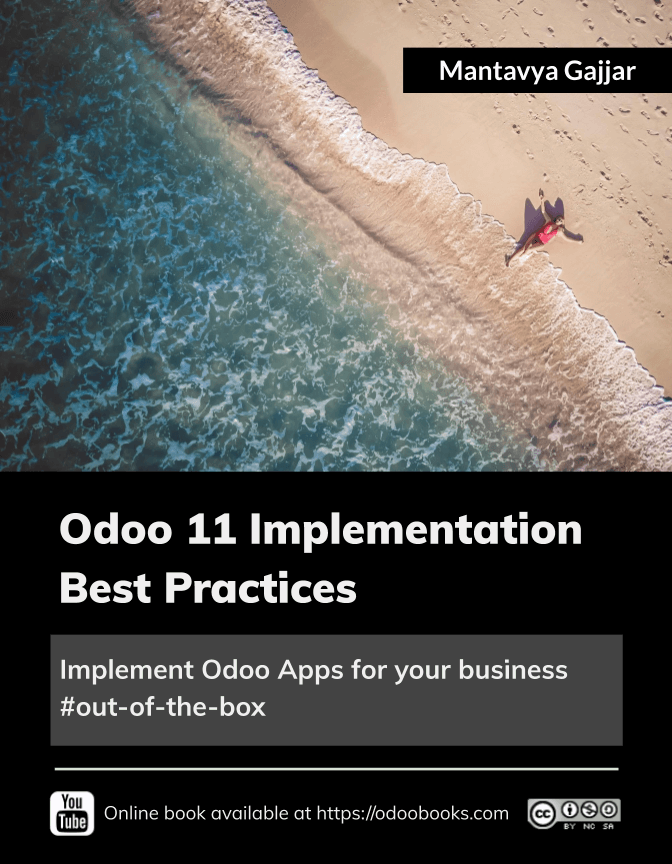
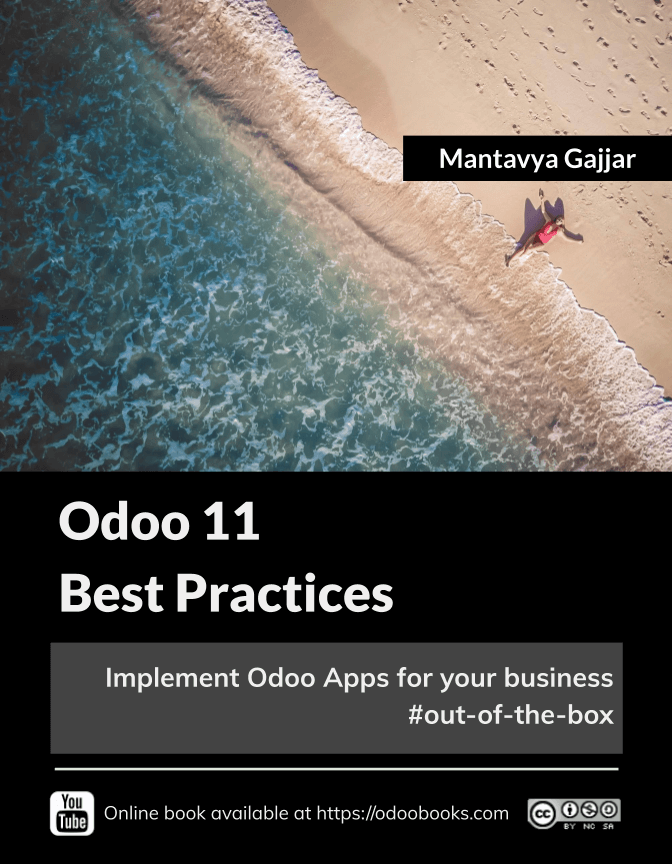
[FIX]: fix images and titles

Changed region(s): [[0.0625, 0.5625, 0.9375, 0.875], [0.5938, 0.0312, 1.0, 0.125], [0.5938, 0.1562, 1.0, 0.2188]]

diff --git a/docs/conf.py b/docs/conf.py
@@ -39,7 +39,7 @@ extensions = [
     'sphinx_sitemap'
 ]
 
-site_url = 'https://odoobooks.com/en/11.0/'
+site_url = 'https://odoobooks.com/'
 
 # Add any paths that contain templates here, relative to this directory.
 templates_path = ['_templates']

diff --git a/docs/toc.rst b/docs/toc.rst
@@ -1,18 +1,17 @@
 .. _toc:
 
-Odoo 11 Implementation Best Practices
-=====================================
+Table of Content
+================
 This book is dedicated for entrepreneur who wants to implement all-in-one
 business application out-of-the box for their business.
 
-**Odoo 11 Implementation Best Practices Book** is an online book written based on Community and Enterprise
-Edition. This book covers best implementation practice for most used
-applications such as Sales, Purchase, Inventory, Financial Accounting and
-Manufacturing.
+**Odoo 11 Best Practices Book** is an online book written based on
+Community and Enterprise Edition. This book covers best implementation practice
+for most used applications such as Sales, Purchase, Inventory, Financial
+Accounting and Manufacturing.
 
 .. note:: Please comment on the page below, if you have any question related to
-  that topic. You can also send an email to mail@mantavyagajjar.in to propose new
-  topics you would like to have on the book.
+  that topic, you can also propose new topics you would like to have on the book.
 
   You can subscribe to `Youtube <https://www.youtube.com/c/MantavyaGajjar>`_
   channel to receive an instance update about the new videos and pages on this book.

diff --git a/docs/about.rst b/docs/about.rst
@@ -2,23 +2,23 @@
 
 
 .. index::
-   single: About Online Book
-   single: Odoo 11 Implementation Best Practices
+   single: About Book
+   single: Odoo 11 Best Practices
    single: About Author
    single: About Reviewer
 
-===========================================
-About Odoo 11 Implementation Best Practices
-===========================================
+============================
+About Odoo 11 Best Practices
+============================
 
 .. image:: images/odoo-11-book-small.png
    :height: 300px
    :width: 240 px
    :scale: 100 %
-   :alt: Odoo 11 Implementation Best Practices
+   :alt: Odoo 11 Best Practices
    :align: right
 
-Odoo 11 Implementation Best Practices book is dedicated for functional consultants or entrepreneur
+Odoo 11 Best Practices book is dedicated for functional consultants or entrepreneur
 who wants to implement or use odoo online all-in-one business
 application out-of-the box. This is an online book written based on Odoo
 **Community** and **Enterprise** Edition. This book covers best

diff --git a/docs/index.rst b/docs/index.rst
@@ -7,12 +7,12 @@
    single: Home
 
 
-Odoo 11 Implementation Best Practices
-=====================================
+Odoo 11 Best Practices
+======================
 This book is dedicated for entrepreneur who wants to implement all-in-one
 business application out-of-the box for their business.
 
-**Odoo 11 Implementation Best Practices Book** is an online book written based on Community and Enterprise
+**Odoo 11 Best Practices Book** is an online book written based on Community and Enterprise
 Edition. This book covers best implementation practice for most used
 applications such as Sales, Purchase, Inventory, Financial Accounting and
 Manufacturing.
